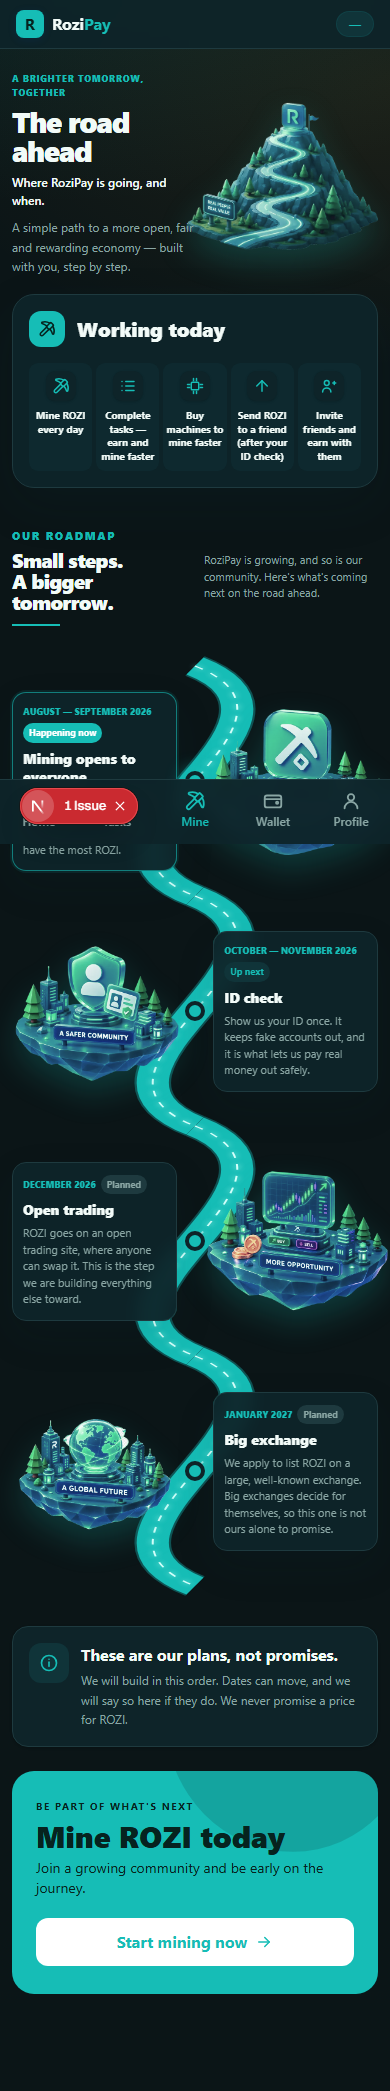
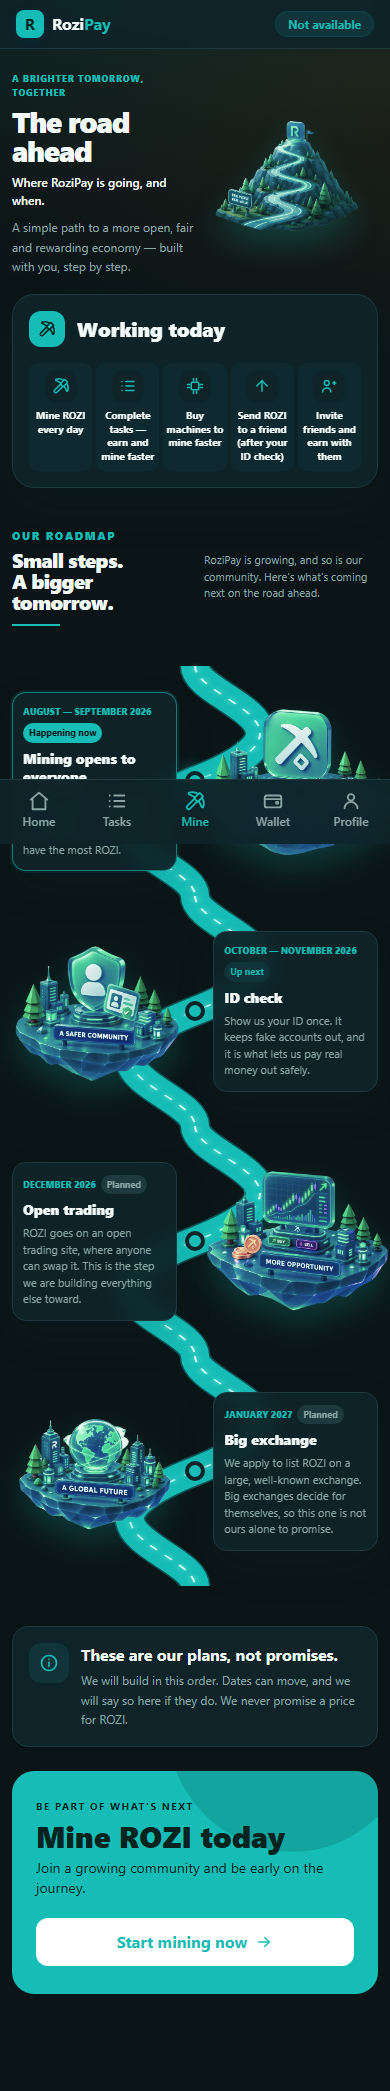
Trim roadmap copy, drop the send-ROZI tile, and pulse the live marker
Condenses the hero line, the four "working today" tiles, and all four
timeline step descriptions so nothing wraps onto the road art on
phones; adds a soft ripple-ping animation to the "happening now" node
so it reads as "you are here" at a glance.

diff --git a/web/src/app/mine/roadmap/page.tsx b/web/src/app/mine/roadmap/page.tsx
@@ -2,46 +2,46 @@
 
 import Link from "next/link";
 import Image from "next/image";
+import { useSyncExternalStore } from "react";
 import { useI18n } from "@/lib/i18n";
+import { ROADMAP_STEPS, roadmapStates } from "@/lib/roadmap";
 import {
-  ArrowRightIcon, ChartIcon, CheckIcon, ChipIcon, GemIcon, InfoIcon,
-  MineIcon, ReferIcon, RocketIcon, SendIcon, ShieldIcon, TasksIcon,
+  ArrowRightIcon, CheckIcon, ChipIcon, InfoIcon,
+  MineIcon, ReferIcon, TasksIcon,
 } from "@/components/icons";
 
+// Founder, 2026-09-07: dropped the "Send ROZI to a friend" tile from this
+// screen (marketing preference, not a change to the feature itself — ROZI
+// transfers are live, see CLAUDE.md). Four tiles now; .roadmap-features'
+// grid is 4 columns to match (globals.css).
 const LIVE = [
   { key: "roadmap.live.mining", Icon: MineIcon },
   { key: "roadmap.live.tasks", Icon: TasksIcon },
   { key: "roadmap.live.rigs", Icon: ChipIcon },
-  { key: "roadmap.live.send", Icon: SendIcon },
   { key: "roadmap.live.invite", Icon: ReferIcon },
 ] as const;
 
-const STEPS = [
-  { key: "launch", start: "2026-08-01", end: "2026-09-30", Icon: RocketIcon, art: "/roadmap/island-mining-v2.png", width: 1440, height: 1092 },
-  { key: "kyc", start: "2026-10-01", end: "2026-11-30", Icon: ShieldIcon, art: "/roadmap/island-kyc-v2.png", width: 1402, height: 1122 },
-  { key: "dex", start: "2026-12-01", end: "2026-12-31", Icon: ChartIcon, art: "/roadmap/island-trading-v2.png", width: 1461, height: 1076 },
-  { key: "cex", start: "2027-01-01", end: "2027-01-31", Icon: GemIcon, art: "/roadmap/island-global-v2.png", width: 1536, height: 1024 },
-] as const;
-
-type StepState = "done" | "active" | "upcoming" | "planned";
-
-function statesAt(now: Date): StepState[] {
-  const time = now.getTime();
-  const states: StepState[] = STEPS.map((step) => {
-    if (time > new Date(`${step.end}T23:59:59`).getTime()) return "done";
-    if (time >= new Date(`${step.start}T00:00:00`).getTime()) return "active";
-    return "planned";
-  });
-  const next = states.indexOf("planned");
-  if (next >= 0) states[next] = "upcoming";
-  return states;
+function subscribeToDay(onChange: () => void) {
+  const timer = window.setInterval(onChange, 60_000);
+  window.addEventListener("focus", onChange);
+  document.addEventListener("visibilitychange", onChange);
+  return () => {
+    window.clearInterval(timer);
+    window.removeEventListener("focus", onChange);
+    document.removeEventListener("visibilitychange", onChange);
+  };
 }
+
+const currentDay = () => new Date().toISOString().slice(0, 10);
+// A stable server snapshot avoids baking the build date into cached HTML.
+const serverDay = () => null;
 
 export default function RoadmapPage() {
   const { t } = useI18n();
-  const states = statesAt(new Date());
+  const day = useSyncExternalStore(subscribeToDay, currentDay, serverDay);
+  const states = roadmapStates(day);
   return (
-    <main className="roadmap-live relative overflow-hidden px-4 pb-8 md:px-10 lg:px-14">
+    <div className="roadmap-live relative overflow-hidden px-4 pb-8 md:px-10 lg:px-14">
       <section className="roadmap-hero grid min-h-[300px] items-center gap-3 pt-7 md:grid-cols-[.86fr_1.14fr] md:pt-10">
         <div className="relative z-10">
           <p className="text-[11px] font-extrabold uppercase tracking-[.15em] text-brand">{t("roadmap.hero.eyebrow")}</p>
@@ -60,7 +60,7 @@ export default function RoadmapPage() {
             <span className="grid h-9 w-9 place-items-center rounded-xl bg-brand text-white"><MineIcon size={18} /></span>
             {t("roadmap.live.title")}
           </h2>
-          <p className="hidden text-xs text-muted sm:block">Here&apos;s what you can do right now.</p>
+          <p className="hidden text-xs text-muted sm:block">{t("roadmap.live.description")}</p>
         </div>
         <div className="roadmap-features">
           {LIVE.map(({ key, Icon }) => (
@@ -83,14 +83,14 @@ export default function RoadmapPage() {
         </div>
 
         <div className="roadmap-journey relative mt-4 md:mt-2">
-          {STEPS.map((step, index) => {
+          {ROADMAP_STEPS.map((step, index) => {
             const state = states[index];
             return (
               <article key={step.key} className={`roadmap-stop roadmap-stop-${index}`}>
                 <svg aria-hidden="true" className="roadmap-road" viewBox="0 0 100 100" preserveAspectRatio="none">
-                  <path className="roadmap-road-edge" d="M50 0 C90 25 10 75 50 100" />
-                  <path className="roadmap-road-surface" d="M50 0 C90 25 10 75 50 100" />
-                  <path className="roadmap-road-center" pathLength="100" d="M50 0 C90 25 10 75 50 100" />
+                  <path className="roadmap-road-edge" d="M50 0 C50 15 90 25 50 50 C10 75 50 85 50 100" />
+                  <path className="roadmap-road-surface" d="M50 0 C50 15 90 25 50 50 C10 75 50 85 50 100" />
+                  <path className="roadmap-road-center" pathLength="100" d="M50 0 C50 15 90 25 50 50 C10 75 50 85 50 100" />
                 </svg>
                 <span className={`roadmap-node roadmap-node-${state}`} aria-hidden>{state === "done" && <CheckIcon size={12} />}</span>
                 <div className="roadmap-island">
@@ -121,6 +121,6 @@ export default function RoadmapPage() {
         <div className="relative z-10"><p className="text-[10px] font-bold uppercase tracking-[.15em] text-white/80">{t("roadmap.cta.eyebrow")}</p><h2 className="mt-1 text-3xl font-extrabold">{t("roadmap.cta.title")}</h2><p className="mt-1 text-sm text-white/85">{t("roadmap.cta.subtitle")}</p></div>
         <Link href="/mine" className="relative z-10 mt-5 inline-flex min-h-12 w-full items-center justify-center gap-2 rounded-xl bg-white px-7 font-bold text-brand md:mt-0 md:w-auto">{t("roadmap.mine.cta")} <ArrowRightIcon size={18} /></Link>
       </section>
-    </main>
+    </div>
   );
 }

diff --git a/web/src/app/globals.css b/web/src/app/globals.css
@@ -135,12 +135,13 @@ body {
 /* The same alternating journey is used on phones and desktop. Each road
    segment stretches with its content row; shared endpoints stay connected
    when text wraps or the user enlarges their font. */
-.roadmap-live { isolation: isolate; }
+.roadmap-live { isolation: isolate; overflow-wrap: anywhere; }
+.roadmap-hero > div, .roadmap-intro > * { min-width: 0; }
 .roadmap-hero-stage, .roadmap-island { position: relative; }
 .roadmap-hero-art, .roadmap-island img {
   filter: hue-rotate(-35deg) saturate(.58) drop-shadow(0 14px 16px color-mix(in srgb, var(--color-brand) 22%, transparent));
 }
-.roadmap-features { display: grid; grid-template-columns: repeat(5, minmax(0, 1fr)); gap: 8px; }
+.roadmap-features { display: grid; grid-template-columns: repeat(4, minmax(0, 1fr)); gap: 8px; }
 .roadmap-feature { display: flex; flex-direction: column; align-items: center; gap: 8px; padding: 12px 6px; border-radius: 14px; background: color-mix(in srgb, var(--color-brand-tint) 45%, transparent); }
 .roadmap-feature > span:last-child { text-align: center; }
 .roadmap-journey { position: relative; padding-block: 24px; }
@@ -152,10 +153,12 @@ body {
 }
 .roadmap-road { position: absolute; inset: 0; width: 100%; height: 100%; overflow: visible; pointer-events: none; }
 .roadmap-road path { fill: none; }
-.roadmap-road-edge { stroke: color-mix(in srgb, var(--color-brand) 30%, var(--color-card)); stroke-width: 10; }
-.roadmap-road-surface { stroke: var(--color-brand); stroke-width: 8.8; }
+.roadmap-road-edge, .roadmap-road-surface { vector-effect: non-scaling-stroke; }
+.roadmap-road-edge { stroke: color-mix(in srgb, var(--color-brand) 30%, var(--color-card)); stroke-width: clamp(28px, 8vw, 85px); }
+.roadmap-road-surface { stroke: var(--color-brand); stroke-width: clamp(25px, 7.2vw, 77px); }
 .roadmap-road-center { stroke: #d4fffa; stroke-width: .55; stroke-dasharray: 2.2 2.4; filter: drop-shadow(0 0 1px #b6fff4); }
-/* Identical endpoints and tangents keep adjacent road segments smooth. */
+/* Vertical end tangents and non-scaling strokes keep joins smooth even when
+   adjacent cards wrap to different heights (including enlarged text). */
 .roadmap-island { z-index: 1; width: 118%; justify-self: center; }
 .roadmap-island img { display: block; width: 100%; height: auto; }
 .roadmap-card-position { position: relative; z-index: 2; min-width: 0; }
@@ -170,20 +173,41 @@ body {
   border-radius: 50%; background: var(--color-brand); color: white;
   box-shadow: 0 0 0 2px color-mix(in srgb, var(--color-brand) 40%, transparent);
 }
-.roadmap-node-active { box-shadow: 0 0 0 5px color-mix(in srgb, var(--color-brand) 22%, transparent), 0 0 18px var(--color-brand); }
+/* "You are here" — a soft white ripple ping on the current step's node,
+   never used on done/upcoming/planned so it stays a single, clear signal. */
+.roadmap-node-active {
+  box-shadow: 0 0 0 5px color-mix(in srgb, var(--color-brand) 22%, transparent), 0 0 18px var(--color-brand);
+  animation: roadmap-node-ping 2.1s cubic-bezier(.2, .7, .3, 1) infinite;
+}
+.roadmap-node-active::after {
+  content: ""; position: absolute; inset: -5px; border-radius: 50%;
+  border: 2px solid #fff; opacity: 0;
+  animation: roadmap-node-ring 2.1s cubic-bezier(.2, .7, .3, 1) infinite;
+}
+@keyframes roadmap-node-ping {
+  0%, 100% { box-shadow: 0 0 0 5px color-mix(in srgb, var(--color-brand) 22%, transparent), 0 0 18px var(--color-brand); }
+  50% { box-shadow: 0 0 0 5px color-mix(in srgb, var(--color-brand) 22%, transparent), 0 0 26px 4px #fff; }
+}
+@keyframes roadmap-node-ring {
+  0% { transform: scale(.85); opacity: .9; }
+  80%, 100% { transform: scale(1.9); opacity: 0; }
+}
 .roadmap-node-done { background: var(--color-success); }
-.roadmap-badge-active { color: white; background: var(--color-brand); }
+.roadmap-badge-active { color: var(--color-bg); background: var(--color-brand); }
 .roadmap-badge-done { color: var(--color-success); background: var(--color-success-tint); }
 .roadmap-badge-upcoming { color: var(--color-brand); background: var(--color-brand-tint); }
-.roadmap-badge-planned { color: var(--color-muted); background: var(--color-line); }
+.roadmap-badge-planned, .roadmap-badge-scheduled { color: var(--color-muted); background: var(--color-line); }
 .roadmap-cta::before { content: ""; position: absolute; inset: -80% -10% auto 42%; height: 260px; border-radius: 50%; background: color-mix(in srgb, var(--color-card) 16%, transparent); transform: rotate(-12deg); }
 @media (max-width: 599px) {
   .roadmap-live { padding-inline: 12px; }
   .roadmap-hero { grid-template-columns: 1fr 1fr; gap: 0; min-height: 245px; padding-top: 22px; padding-bottom: 16px; }
-  .roadmap-hero h1 { font-size: clamp(26px, 7.5vw, 38px); }
-  .roadmap-hero p:first-child { font-size: 9px; letter-spacing: .08em; }
+  /* Founder, 2026-09-07: fit the eyebrow and title on one line each at
+     common phone widths — smaller, tighter-tracked, still comfortably
+     inside the text column so nothing overflows toward the art. */
+  .roadmap-hero h1 { font-size: clamp(19px, 6.4vw, 27px); letter-spacing: -.03em; white-space: nowrap; }
+  .roadmap-hero p:first-child { font-size: clamp(7.5px, 2.3vw, 9.5px); letter-spacing: .045em; white-space: nowrap; }
   .roadmap-hero p { font-size: 12px; }
-  .roadmap-hero-stage { width: 135%; margin-left: -20%; }
+  .roadmap-hero-stage { width: 100%; }
   .roadmap-features { gap: 4px; }
   .roadmap-feature { padding: 8px 2px; border-radius: 9px; }
   .roadmap-feature > span:first-child { width: 30px; height: 30px; border-radius: 9px; }

diff --git a/web/src/lib/i18n.tsx b/web/src/lib/i18n.tsx
@@ -1190,15 +1190,13 @@ const copy: Record<string, string> = {
   // together they are one tagline, not four sentences.
   "roadmap.hero.tagline": "Mine\nEarn\nBuild\nTogether",
   "roadmap.live.title": "Working today",
+  "roadmap.live.description": "Here's what you can do right now.",
+  // Founder, 2026-09-07: keep these to a word or two each — one tile still
+  // spells out "every day" since that's the one habit this screen is selling.
   "roadmap.live.mining": "Mine ROZI every day",
-  "roadmap.live.tasks": "Complete tasks — earn and mine faster",
-  "roadmap.live.rigs": "Buy machines to mine faster",
-  // ⚠ THE QUALIFIER IS LOAD-BEARING. Sending requires the ID check
-  // (transferRequireKyc = 1), and the "What is next" section below dates the ID
-  // check to October — November. Unqualified, this row told a user a feature
-  // works today sixty pixels above the date its gate arrives.
-  "roadmap.live.send": "Send ROZI to a friend (after your ID check)",
-  "roadmap.live.invite": "Invite friends and earn with them",
+  "roadmap.live.tasks": "Complete tasks",
+  "roadmap.live.rigs": "Buy machines",
+  "roadmap.live.invite": "Invite friends",
   "roadmap.next.title": "What is next",
   // The richer section header above the timeline (same reference layout).
   "roadmap.roadmap.eyebrow": "Our roadmap",
@@ -1214,25 +1212,27 @@ const copy: Record<string, string> = {
   "roadmap.state.active": "Happening now",
   "roadmap.state.upcoming": "Up next",
   "roadmap.state.planned": "Planned",
+  "roadmap.state.scheduled": "Scheduled",
   "roadmap.step.launch.when": "August — September 2026",
   "roadmap.step.launch.title": "Mining opens to everyone",
+  // Founder, 2026-09-07: compressed — same facts (early = most ROZI), fewer words.
   "roadmap.step.launch.body":
-    "RoziPay opens to everyone. Two months of mining, so the people who came first have the most ROZI.",
+    "RoziPay opens to everyone. Mine in the first two months for the most ROZI.",
   "roadmap.step.launch.tag": "Mine together",
   "roadmap.step.kyc.when": "October — November 2026",
   "roadmap.step.kyc.title": "ID check",
   "roadmap.step.kyc.body":
-    "Show us your ID once. It keeps fake accounts out, and it is what lets us pay real money out safely.",
+    "One quick ID check. It blocks fake accounts and unlocks real payouts.",
   "roadmap.step.kyc.tag": "A safer community",
   "roadmap.step.dex.when": "December 2026",
   "roadmap.step.dex.title": "Open trading",
   "roadmap.step.dex.body":
-    "ROZI goes on an open trading site, where anyone can swap it. This is the step we are building everything else toward.",
+    "ROZI lists on an open trading site for anyone to swap — the step everything else builds toward.",
   "roadmap.step.dex.tag": "More opportunity",
   "roadmap.step.cex.when": "January 2027",
   "roadmap.step.cex.title": "Big exchange",
   "roadmap.step.cex.body":
-    "We apply to list ROZI on a large, well-known exchange. Big exchanges decide for themselves, so this one is not ours alone to promise.",
+    "We apply to list ROZI on a major exchange. The final decision is theirs, not ours to promise.",
   "roadmap.step.cex.tag": "A global future",
   // The honest footer. It is small, but it is the difference between a plan and
   // a promise — and it is the line that lets us move a date without breaking

diff --git a/web/src/lib/roadmap.ts b/web/src/lib/roadmap.ts
@@ -1,0 +1,22 @@
+export const ROADMAP_STEPS = [
+  { key: "launch", start: "2026-08-01", end: "2026-09-30", art: "/roadmap/island-mining-v2.png", width: 1440, height: 1092 },
+  { key: "kyc", start: "2026-10-01", end: "2026-11-30", art: "/roadmap/island-kyc-v2.png", width: 1402, height: 1122 },
+  { key: "dex", start: "2026-12-01", end: "2026-12-31", art: "/roadmap/island-trading-v2.png", width: 1461, height: 1076 },
+  { key: "cex", start: "2027-01-01", end: "2027-01-31", art: "/roadmap/island-global-v2.png", width: 1536, height: 1024 },
+] as const;
+
+export type RoadmapState = "done" | "active" | "upcoming" | "planned" | "scheduled";
+
+// ISO calendar days keep the end date inclusive, including its final second.
+// UTC gives every device the same schedule regardless of its local timezone.
+export function roadmapStates(day: string | null): RoadmapState[] {
+  if (day === null) return ROADMAP_STEPS.map(() => "scheduled");
+  const states: RoadmapState[] = ROADMAP_STEPS.map((step) => {
+    if (day > step.end) return "done";
+    if (day >= step.start) return "active";
+    return "planned";
+  });
+  const next = states.indexOf("planned");
+  if (next >= 0) states[next] = "upcoming";
+  return states;
+}

diff --git a/web/src/app/layout.tsx b/web/src/app/layout.tsx
@@ -64,7 +64,8 @@ export const viewport: Viewport = {
 
 export default function RootLayout({ children }: { children: React.ReactNode }) {
   return (
-    <html lang="en">
+    // The blocking theme script intentionally sets data-theme before hydration.
+    <html lang="en" suppressHydrationWarning>
       <body className={`${inter.variable} ${sora.variable} antialiased`}>
         {/* No telegram-web-app.js here, deliberately: telegram.org is blocked
             on many Pakistani networks, and a blocked beforeInteractive script
